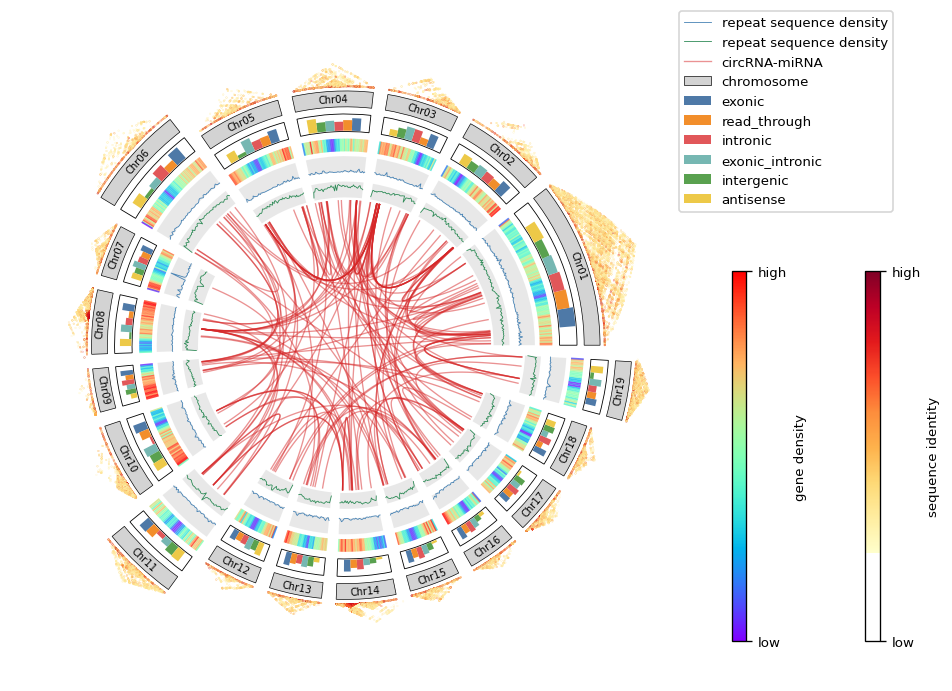
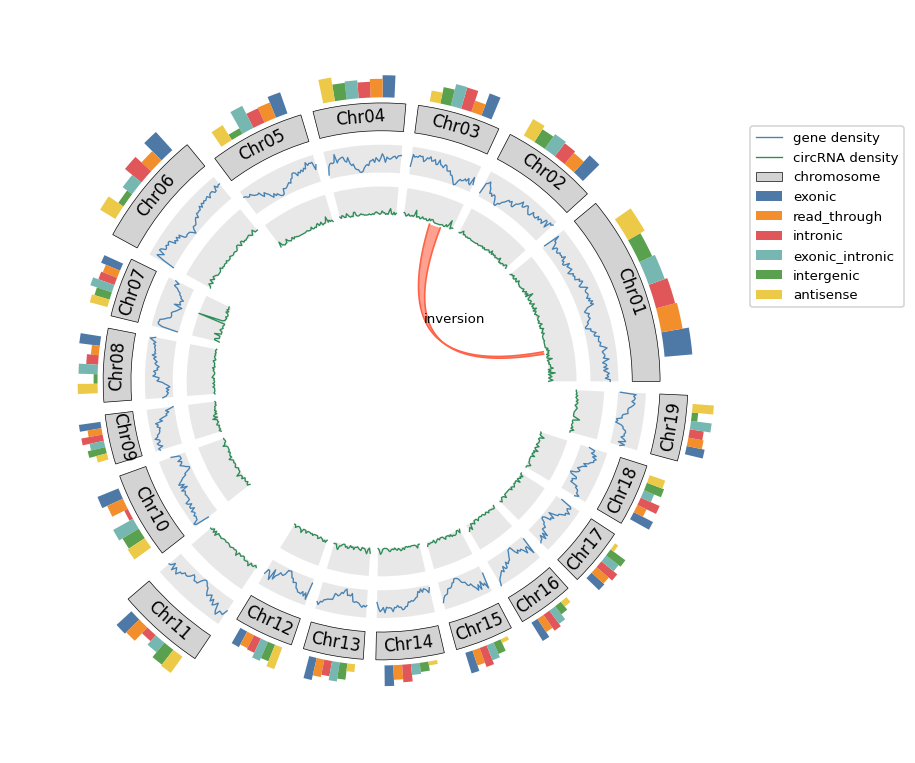
update

Changed region(s): [[0.0612, 0.0, 1.0, 0.9421], [0.9792, 0.5774, 1.0, 0.7598], [0.8262, 0.6078, 0.8568, 0.7294]]

diff --git a/UserGuide.md b/UserGuide.md
@@ -311,6 +311,85 @@ ax.legend(loc=(0.999, 0.6))
 cc.save('example/7.png')
 ```
 ![image](https://github.com/wenlinXu-njfu/GenomeCircos/blob/main/example/7.png?raw=true)
+**Show hypothetical inversion**
+```python
+from genome_circos import ChromosomeCircos
+
+cc = ChromosomeCircos(
+    chr_len_file='example/chr_len.txt',  # chromosome length file (ChrName\tChrLen\tEtc)
+    spacing=4,  # set the spacing between chromosomes to be one quarter of the shortest chromosome
+    font=None,  # use default font of matplotlib.rcParams['font.family']
+    font_size=8,  # global font size
+    figsize=(10, 8),  # figure dimension (width, height) in inches
+    dpi=120  # dots per inch
+)
+
+bottom = [9, 9, 9, 9, 9, 10, 9, 9, 9, 9, 11, 9, 9, 9, 9, 9, 9, 9, 10]
+
+ax = cc.chr_bar(
+    height=1,  # chromosome bar height
+    bottom=bottom,  # chromosome bar bottom y-axis coordinate
+    face_color='lightgrey',  # chromosome bar fill colr
+    edge_color='black',  # chromosome bar border colr
+    line_width=0.4,  # chromosome bar border width
+    font_size=10  # chromosome name font size
+)
+
+cc.bar(
+    axes=ax,  # axes object of matplotlib.axes.Axes.
+    stat_file='example/stat.txt',  # feature statistics file (ChrName\tFeatureType\tCount\tColor)
+    bottom=[i + 1.2 for i in bottom],  # bottom y-axis coordinate of statistic bar on each chromosome
+    height=1,  # height of statistical bar
+    frame=False  # add borders to the bar charts on each chromosome
+)
+
+cc.plot(
+    gene_density_file='example/gene_density.txt',  # feature density file (ChrName\tStart\tEnd\tCount)
+    axes=ax,
+    bottom=[i - 1.5 for i in bottom],  # y-axis coordinate bottom of gene density chart for each chromosome
+    height=1,  # curve height
+    line_width=0.8,  # gene density curve width for each chromosome.
+    color='steelblue',  # density curve color
+    label='gene density',  # density curve label
+    **{'facecolor': 'lightgrey', 'alpha': 0.5}  # background frame attribute dict
+)
+
+cc.plot(
+    gene_density_file='example/circ_density.txt',
+    axes=ax,
+    bottom=[i - 3 for i in bottom],
+    height=1,  # curve height
+    line_width=0.8,  # gene density curve width for each chromosome.
+    color='SeaGreen',
+    label='circRNA density',
+    **{'facecolor': 'lightgrey', 'alpha': 0.5}  # background frame attribute dict
+)
+
+cc.link_region(
+    axes=ax,
+    chr1='Chr01',
+    s1=12000000,
+    e1=13000000,
+    y1=5.9,
+    chr2='Chr03',
+    s2=5000000,
+    e2=10000000,
+    y2=5.9,
+    line_width=1,
+    line_color='tomato',
+    line_alpha=None,
+    fill_color='tomato',
+    fill_alpha=0.6,
+    label='inversion',
+    label_color='black',
+    label_alpha=1,
+    label_size=8
+)
+
+ax.legend(loc=(0.999, 0.6))
+cc.save('example/8.png')
+```
+![image](https://github.com/wenlinXu-njfu/GenomeCircos/blob/main/example/8.png?raw=true)
 
 ## 5. All steps.
 ```python
@@ -365,7 +444,7 @@ cc.plot(
     height=1,
     line_width=0.5,
     color='steelblue',
-    label='repeat sequence density',
+    label='circRNA density',
     **{'facecolor': 'lightgrey', 'alpha': 0.5}  # background frame attribute dict
 )
 
@@ -406,7 +485,7 @@ cc.density_heatmap(
 )
 
 ax.legend(loc=(0.999, 0.7))
-cc.save('example/8.png')
+cc.save('example/9.png')
 ```
 ![image](https://github.com/wenlinXu-njfu/GenomeCircos/blob/main/example/8.png?raw=true)
 
